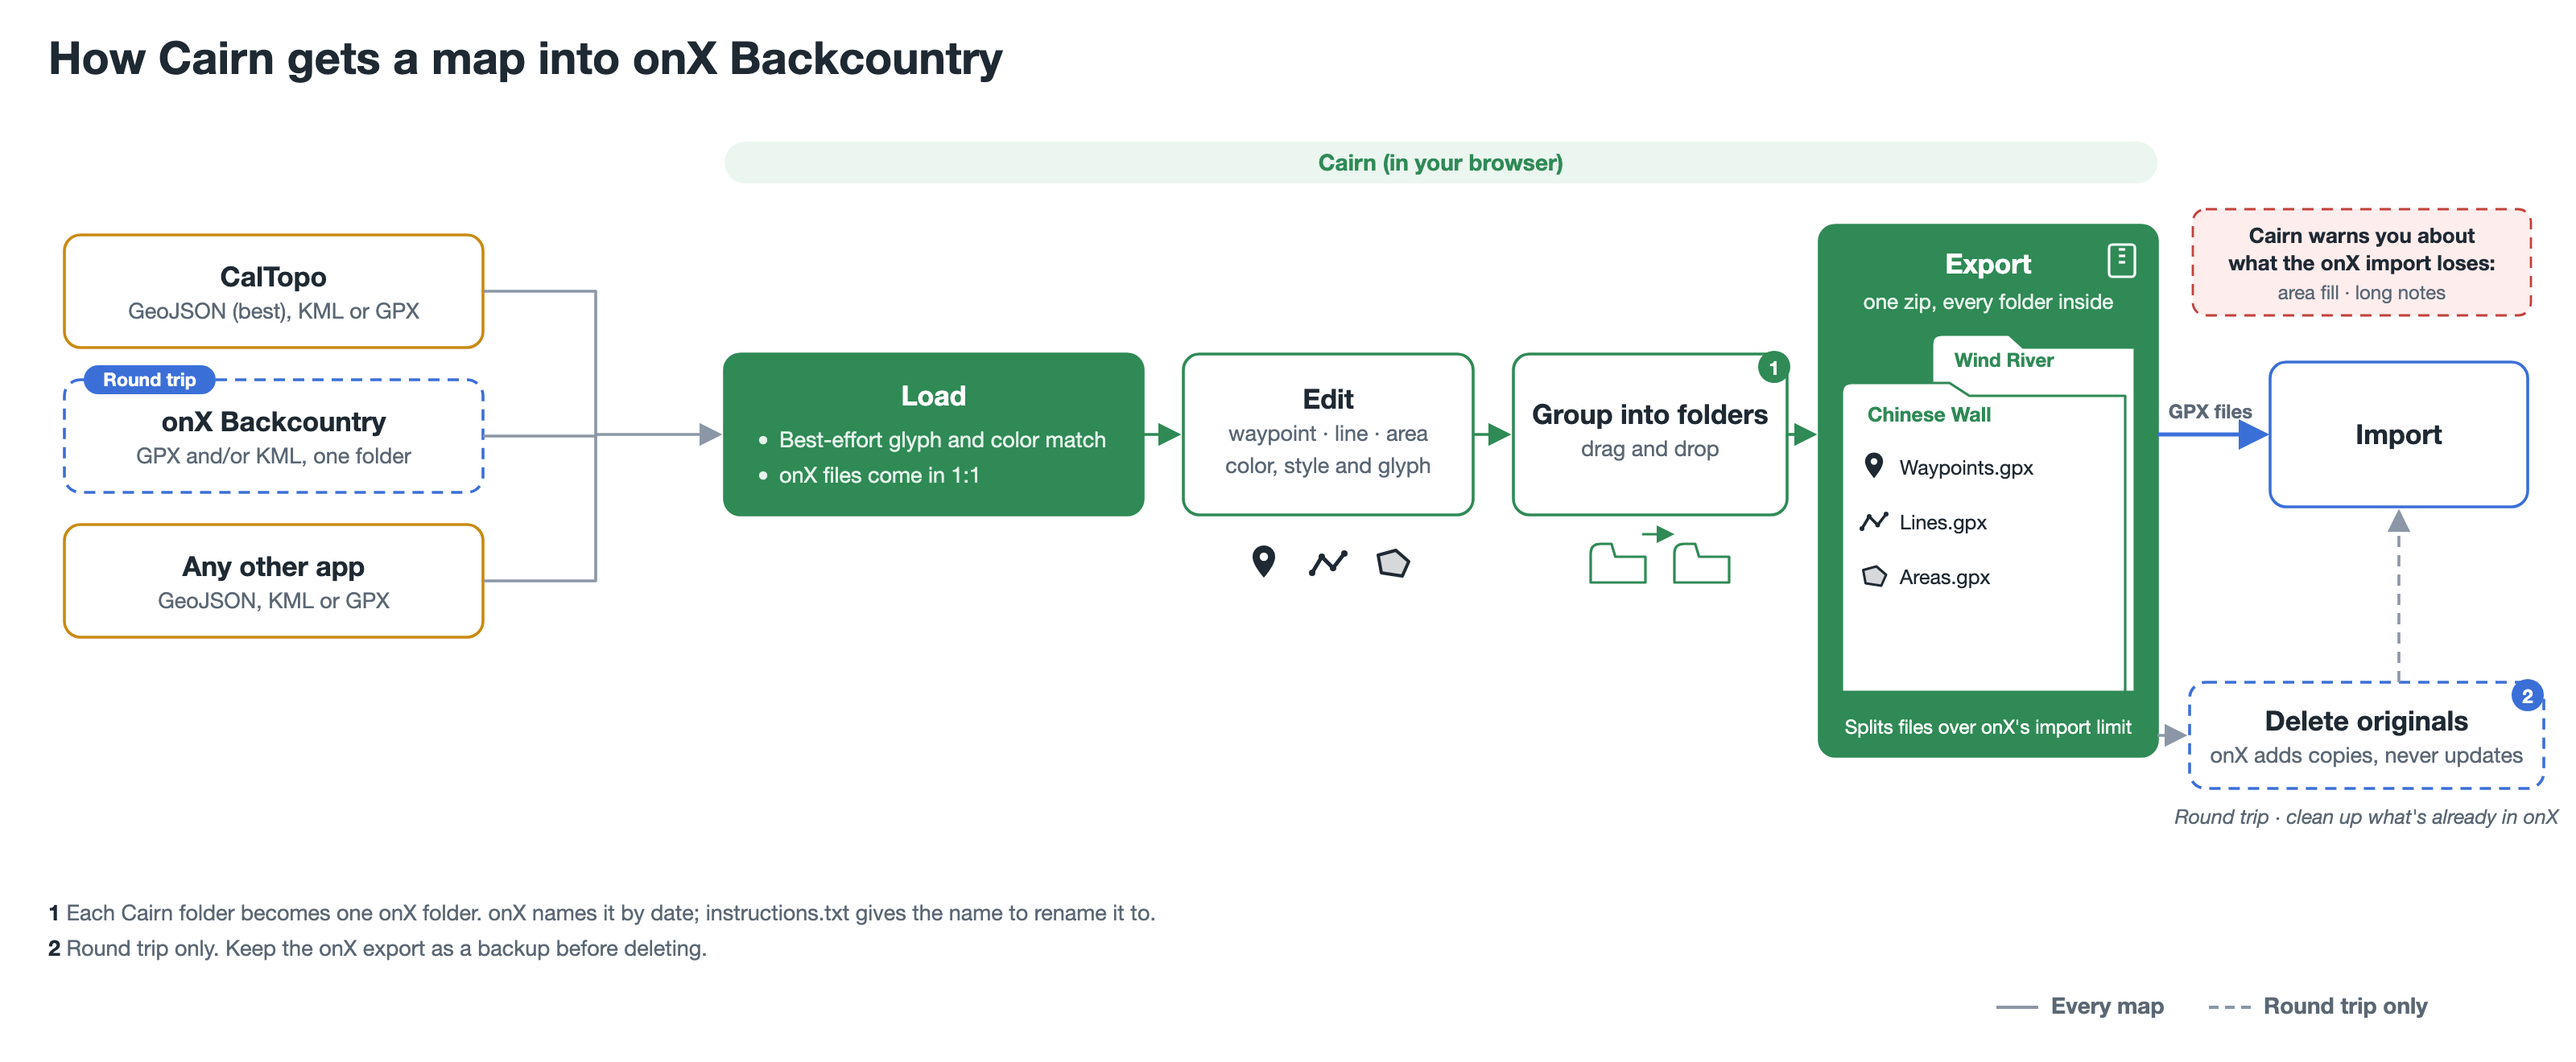
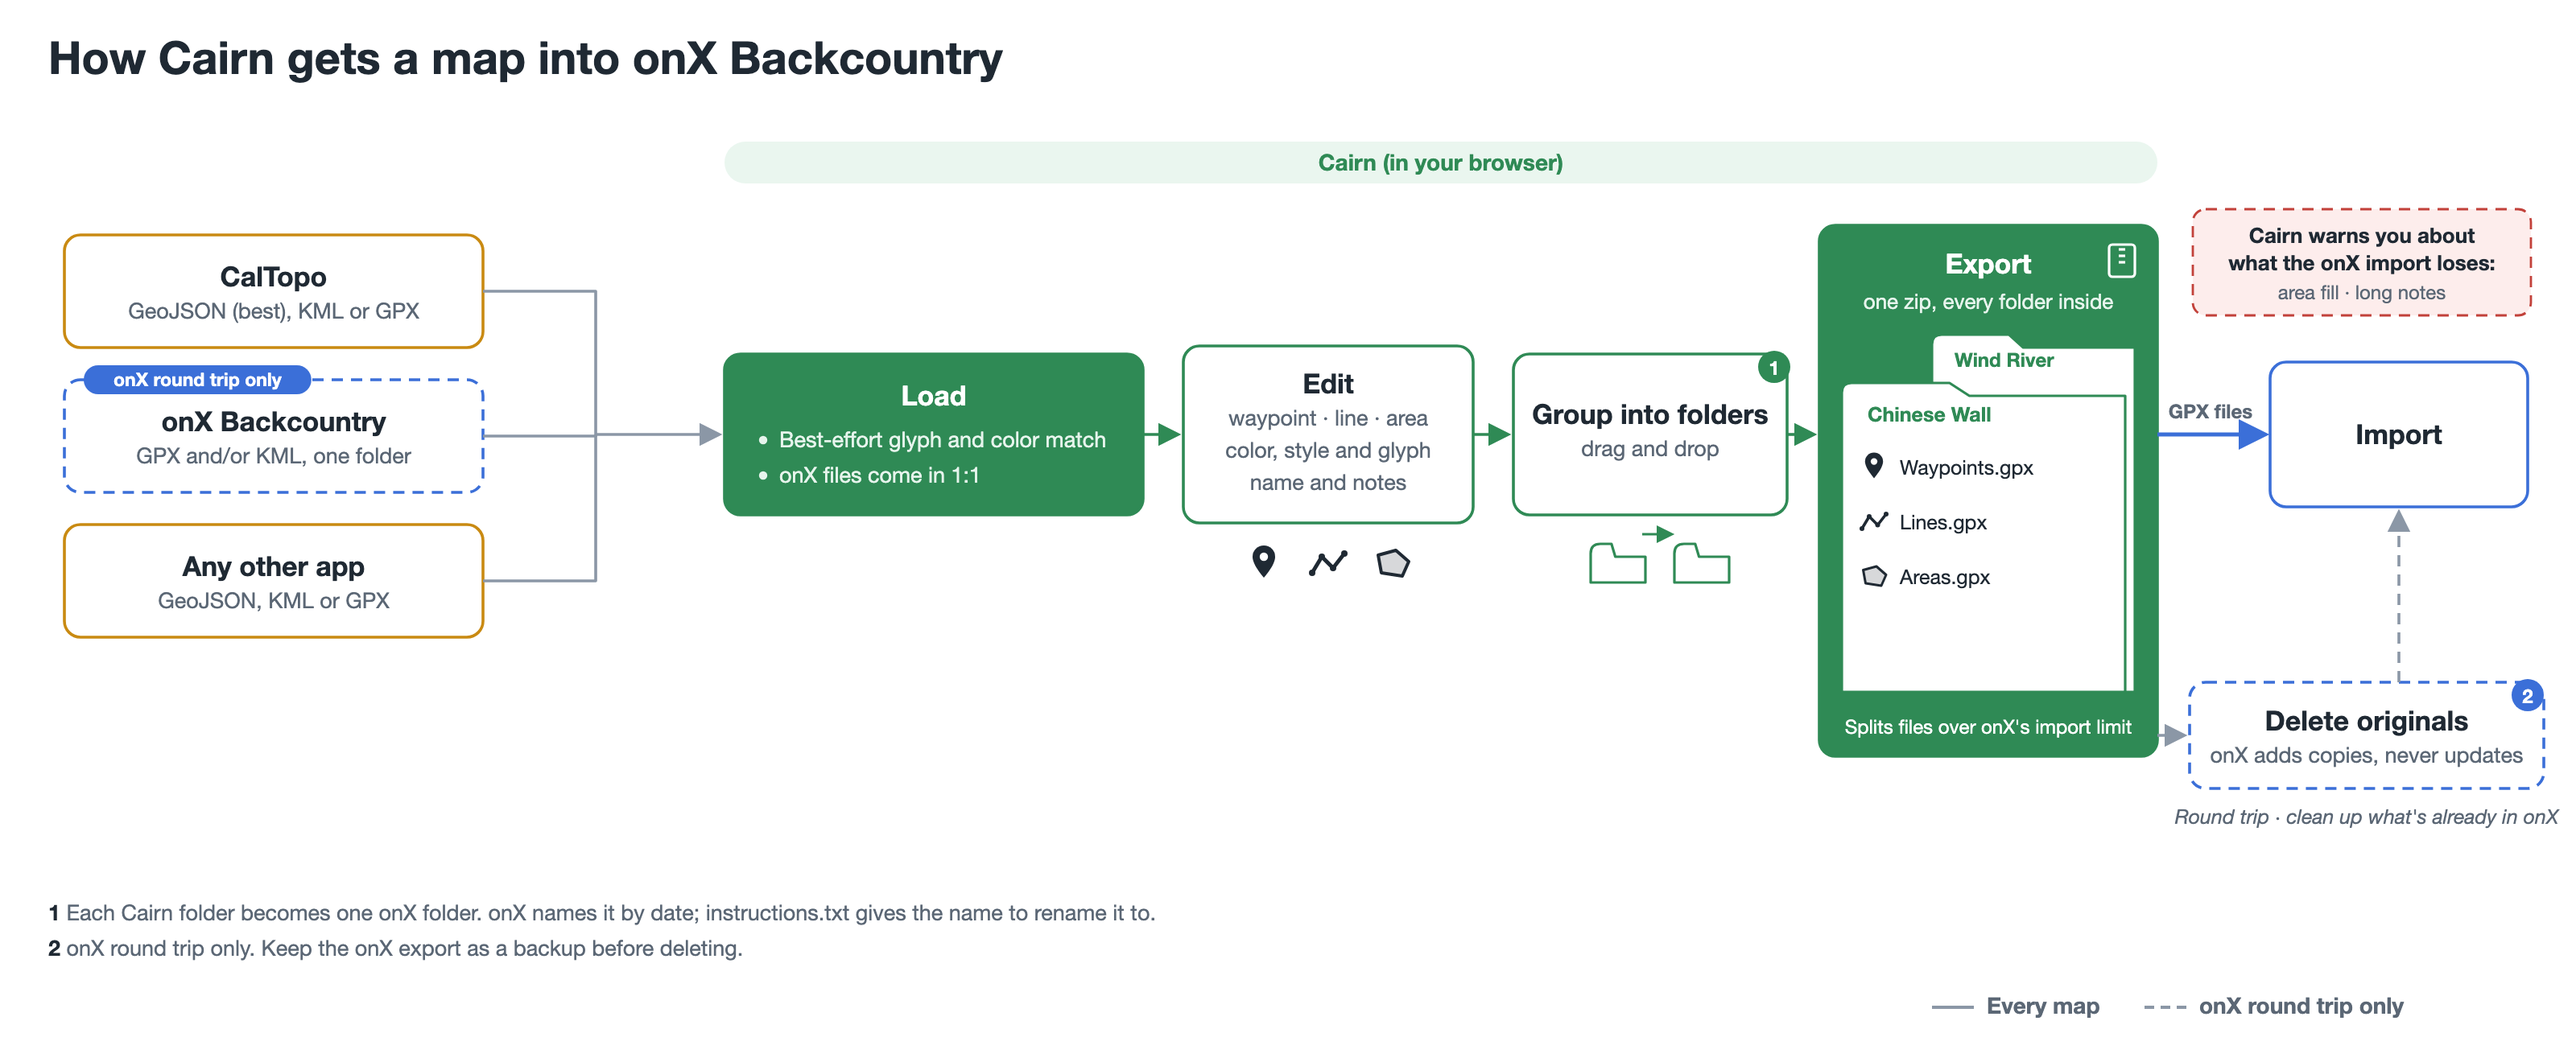
docs(readme): diagram says 'onX round trip only'; Edit gains 'name and notes'
Claude-Session: https://claude.ai/code/session_019BuYxNAfXvJtTFx663jVwh

diff --git a/scripts/make_readme_diagram.py b/scripts/make_readme_diagram.py
@@ -185,14 +185,14 @@ def final2():
                               (326, "Any other app", "GeoJSON, KML or GPX", "a", False)):
         L.append(step(40, y, 260, 70, t, st, "out", c, dash=dash))
         L.append(arrow([(300, y + 35), (370, y + 35), (370, cy)], head=False))
-    L.append(tag(52, 227, "Round trip"))
+    L.append(tag(52, 227, "onX round trip only"))
     L.append(arrow([(370, cy), (446, cy)]))
     # Load: two separate things, as bullets
     L.append(rect(450, cy - 50, 260, 100, "g", "g") + T(580, cy - 18, "Load", 17, "#fff", 700))
     for i, line in enumerate(("Best-effort glyph and color match", "onX files come in 1:1")):
         y = cy + 8 + i * 22
         L.append(f'<circle cx="474" cy="{y - 4.5}" r="2.6" fill="#E6F4EC"/>' + T(484, y, line, 13.5, "#E6F4EC", 400, "start"))
-    L.append(step3(735, cy - 50, 180, 100, "Edit", ["waypoint · line · area", "color, style and glyph"], "out", "g"))
+    L.append(step3(735, cy - 55, 180, 110, "Edit", ["waypoint · line · area", "color, style and glyph", "name and notes"], "out", "g"))
     L.append(pin(785, 350) + poly(825, 350) + area(865, 350))
     L.append(step3(940, cy - 50, 170, 100, "Group into folders", ["drag and drop"], "out", "g"))
     L.append(f'<circle cx="1102" cy="{cy-42}" r="10" fill="{C["g"]}"/>' + T(1102, cy - 37, "1", 12, "#fff", 700))
@@ -209,8 +209,8 @@ def final2():
     L.append(arrow([(1490, 424), (1490, cy + 49)], dash=True))
     L.append(T(1470, 512, "Round trip · clean up what's already in onX", 12.5, "sub", 400, italic=True))
     L.append(notes(30, 572, [("1", "Each Cairn folder becomes one onX folder. onX names it by date; instructions.txt gives the name to rename it to."),
-                             ("2", "Round trip only. Keep the onX export as a backup before deleting.")]))
-    L.append(key(1240, 630, [("solid", "Every map"), ("dash", "Round trip only")]))
+                             ("2", "onX round trip only. Keep the onX export as a backup before deleting.")]))
+    L.append(key(1200, 630, [("solid", "Every map"), ("dash", "onX round trip only")]))
     return svg(W, H, "".join(L)), W, H
 
 
